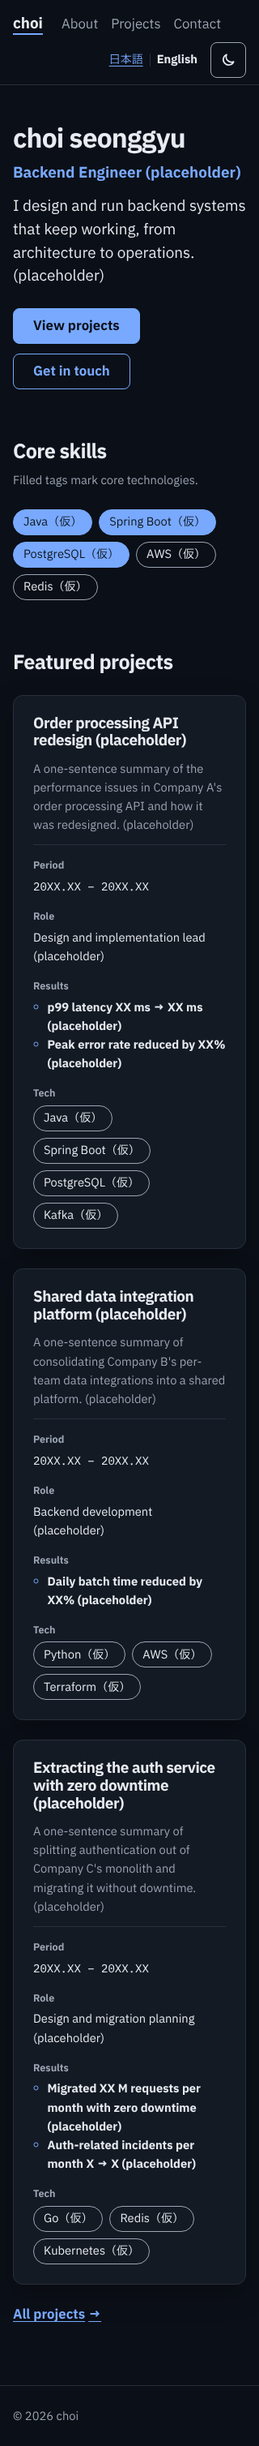
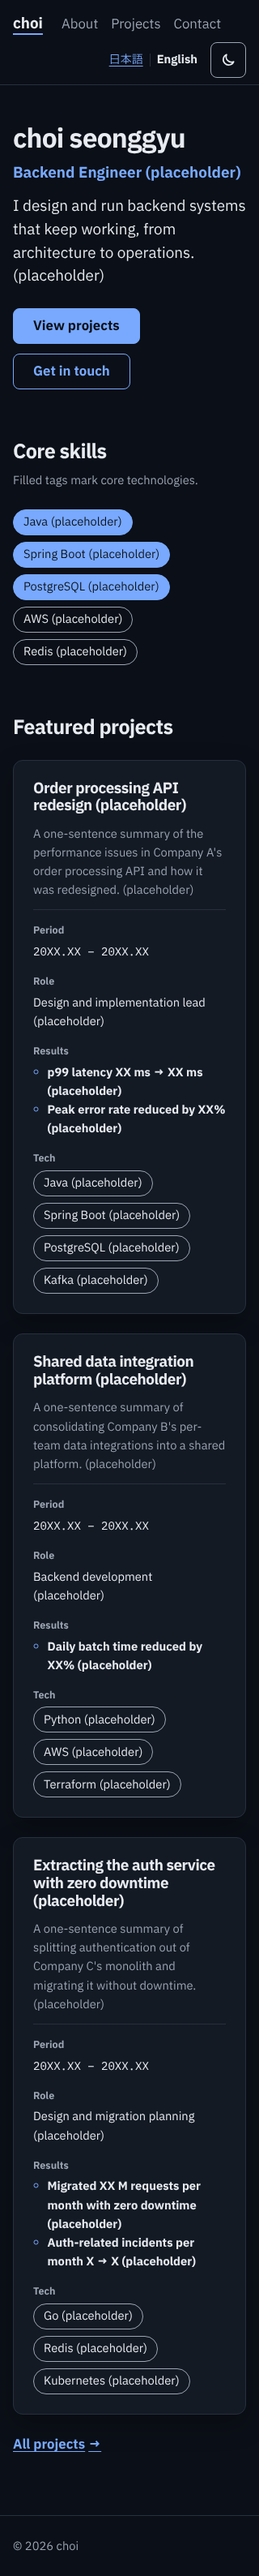
fix(home): 영어 화면 기술 이름에 영어 임시 표식 사용, 임시 항목 0건도 로그 출력 (T04 교차 리뷰)
- skills.yaml의 기술 이름을 언어 공통 문자열 또는 { ja, en }으로 받게 하고 localize로 페이지 언어 값을 고름
- 임시 기술 이름은 { ja: Java（仮）, en: Java (placeholder) }, 영어 프로젝트 tech는 (placeholder)
- [content] placeholder entries 로그를 0건일 때도 출력
- ARCHITECTURE §2 갱신, 영어 캡처 재촬영

Claude-Session: https://claude.ai/code/session_01K3SpN9df4Ld8oqsYgjqdA4

Changed region(s): [[0.0312, 0.0, 0.9375, 0.9662], [0.8125, 0.0, 0.9062, 0.0312], [0.7812, 0.7168, 0.8125, 0.748]]

diff --git a/src/lib/content.ts b/src/lib/content.ts
@@ -7,11 +7,13 @@ export type Profile = CollectionEntry<'profile'>['data'];
 export type Skill =
   CollectionEntry<'skills'>['data']['categories'][number]['items'][number];
 export type Project = CollectionEntry<'projects'>['data'] & { slug: string };
+/** 이름을 한 언어로 정한 기술. */
+export type LocalizedSkill = Omit<Skill, 'name'> & { name: string };
 
 export interface HomeContent {
   profile: Profile;
   /** Home 핵심 기술. homeOrder 순서. */
-  skills: Skill[];
+  skills: LocalizedSkill[];
   /** Home 대표 프로젝트. featuredOrder 순서. */
   projects: Project[];
 }
@@ -23,6 +25,12 @@ const PRIMARY_SKILLS = { min: 2, max: 4, perCategory: 2 };
 
 const isLocale = (value: string): value is Locale =>
   (locales as string[]).includes(value);
+
+/** 언어 공통 문자열 또는 언어별 값({ ja, en })에서 그 언어의 값을 고른다. */
+export const localize = (
+  value: string | Record<Locale, string>,
+  locale: Locale,
+): string => (typeof value === 'string' ? value : value[locale]);
 
 const outOfRange = (
   count: number,
@@ -132,7 +140,7 @@ async function loadContent() {
   const primaryOffHome = primary.filter((s) => s.homeOrder === undefined);
   if (primaryOffHome.length > 0) {
     errors.push(
-      `주력 기술은 모두 Home 핵심 기술에 포함해야 한다(homeOrder 필요): ${primaryOffHome.map((s) => s.name).join(', ')}`,
+      `주력 기술은 모두 Home 핵심 기술에 포함해야 한다(homeOrder 필요): ${primaryOffHome.map((s) => localize(s.name, 'ja')).join(', ')}`,
     );
   }
   if (outOfRange(primary.length, PRIMARY_SKILLS)) {
@@ -155,7 +163,7 @@ async function loadContent() {
     );
   }
 
-  // 배포 전 0건 확인용(docs/CONTENT.md "임시 문구 규칙"). 프로세스마다 한 번만 출력한다.
+  // 배포 전 0건 확인용(docs/CONTENT.md "임시 문구 규칙"). 0건이어도 출력하고, 프로세스마다 한 번만 출력한다.
   if (!placeholderReported) {
     placeholderReported = true;
     const counts = {
@@ -165,11 +173,9 @@ async function loadContent() {
         .length,
     };
     const total = counts.profile + counts.skills + counts.projects;
-    if (total > 0) {
-      console.warn(
-        `[content] placeholder entries: ${total} (profile ${counts.profile}, skills ${counts.skills}, projects ${counts.projects})`,
-      );
-    }
+    console.warn(
+      `[content] placeholder entries: ${total} (profile ${counts.profile}, skills ${counts.skills}, projects ${counts.projects})`,
+    );
   }
 
   return {
@@ -186,9 +192,9 @@ export async function getHomeContent(locale: Locale): Promise<HomeContent> {
   if (!profile) throw new Error(`[content] 프로필 없음: ${locale}`);
   return {
     profile,
-    skills: content.homeSkills.toSorted(
-      (a, b) => (a.homeOrder ?? 0) - (b.homeOrder ?? 0),
-    ),
+    skills: content.homeSkills
+      .toSorted((a, b) => (a.homeOrder ?? 0) - (b.homeOrder ?? 0))
+      .map((skill) => ({ ...skill, name: localize(skill.name, locale) })),
     projects: content.projects[locale]
       .filter((p) => p.featuredOrder !== undefined)
       .toSorted((a, b) => (a.featuredOrder ?? 0) - (b.featuredOrder ?? 0)),

diff --git a/src/content.config.ts b/src/content.config.ts
@@ -15,6 +15,12 @@ const phrases = z.union([z.string().min(1), z.array(z.string().min(1)).min(1)]);
 /** 원고를 받기 전의 임시 값이면 true. 배포 전에 모두 false여야 한다(docs/CONTENT.md). */
 const placeholder = z.boolean();
 
+/** 언어 공통 값. 언어마다 다르게 보여야 하면(예: 임시 표식) { ja, en }으로 쓴다. */
+const localizable = z.union([
+  z.string().min(1),
+  z.strictObject({ ja: z.string().min(1), en: z.string().min(1) }),
+]);
+
 // 언어별 1건: src/content/profile/<ja|en>.yaml
 const profile = defineCollection({
   loader: glob({ pattern: '*.yaml', base: './src/content/profile' }),
@@ -44,7 +50,7 @@ const skills = defineCollection({
             .array(
               z.strictObject({
                 placeholder,
-                name: z.string().min(1),
+                name: localizable,
                 primary: z.boolean().default(false),
                 /** 있으면 Home 핵심 기술에 이 순서로 표시한다. */
                 homeOrder: z.number().int().positive().optional(),

diff --git a/docs/ARCHITECTURE.md b/docs/ARCHITECTURE.md
@@ -78,7 +78,7 @@ Cloudflare Workers (정적 자산)
 | 컬렉션 | 파일 | 단위 | 주요 필드 |
 | --- | --- | --- | --- |
 | `profile` | `src/content/profile/<ja\|en>.yaml` | 언어별 1건(id = 언어) | `placeholder`, `name`, `role`(직함), `tagline`(한 줄 소개), `description`(Home meta description) |
-| `skills` | `src/content/skills.yaml` | 언어 공통 1건 | `categories[]`: `id`, `name.ja`/`name.en`, `items[]`: `placeholder`, `name`, `primary`(기본 false), `homeOrder`(있으면 Home 핵심 기술) |
+| `skills` | `src/content/skills.yaml` | 언어 공통 1건 | `categories[]`: `id`, `name.ja`/`name.en`, `items[]`: `placeholder`, `name`(언어 공통 문자열 또는 `{ ja, en }`), `primary`(기본 false), `homeOrder`(있으면 Home 핵심 기술) |
 | `projects` | `src/content/projects/<ja\|en>/<slug>.yaml` | 언어별, 같은 slug | `placeholder`, `title`, `summary`, `period`(문자열), `role`, `highlights`(1~2개), `tech`, `featuredOrder`(있으면 Home 대표 프로젝트) |
 
 - 필드 이름은 영어 camelCase로 통일한다. 스키마는 `z.strictObject`라서 모르는 필드(오타)가 있으면 빌드가 실패한다.
@@ -86,9 +86,9 @@ Cloudflare Workers (정적 자산)
 - 한 줄을 넘을 수 있는 일본어 문구(`profile.tagline`, `projects.title`)는 문자열 또는 문절 단위 문자열 배열이다. 배열이면 `Phrases.astro`가 문절 사이에서만 줄을 바꾼다(`docs/DESIGN.md` §2). 영어는 문자열로 쓴다.
 - 언어별 콘텐츠는 같은 slug를 쓰는 언어 폴더(프로필은 언어 이름 파일) 방식이다. 기술 스택은 기술 이름이 언어 공통이라 한 파일에 분류 이름만 두 벌 둔다. 분류·기술의 표시 순서는 파일 안 배열 순서다. 컬렉션 항목 사이의 순서에 기대지 않도록 분류마다 항목을 나누지 않고 한 파일 1건으로 둔다.
 - 여러 항목에 걸친 규칙은 `src/lib/content.ts`가 `getCollection` 결과를 검사하고, 어기면 어긴 규칙을 모두 적은 오류를 던져 빌드를 멈춘다: 언어 짝(프로필 ja/en, 프로젝트 slug), 대표 프로젝트 언어마다 2~3개, Home 핵심 기술 3~6개, 주력 기술은 모두 Home 핵심 기술에 포함, 주력 기술 전체 2~4개·분류당 0~2개, 순서 값 중복 금지, 같은 slug의 `featuredOrder`가 언어마다 같음. 페이지는 `getCollection`을 직접 쓰지 않고 이 파일의 함수(지금은 `getHomeContent`)를 쓴다. T05·Projects 지시서는 필요한 조회 함수를 같은 파일에 추가한다.
-- 임시 항목 수: 검사를 통과하면 `[content] placeholder entries: N (profile a, skills b, projects c)`를 빌드 로그에 경고로 한 번 출력한다. 기술은 항목(기술) 하나를 1건으로 센다. 배포 전 0건이어야 한다(`docs/CONTENT.md` "임시 문구 규칙").
+- 임시 항목 수: 검사를 통과하면 `[content] placeholder entries: N (profile a, skills b, projects c)`를 빌드 로그에 경고로 한 번 출력한다(0건이어도 출력). 기술은 항목(기술) 하나를 1건으로 센다. 배포 전 0건이어야 한다(`docs/CONTENT.md` "임시 문구 규칙").
 - 사이트 이름(`src/i18n/ui.ts`의 `site.name`)과 프로필 이름(`profile.name`)은 별개 값이다. 사이트 이름은 모든 페이지의 헤더·푸터·`<title>`에 쓰는 짧은 표기이고 레이아웃이 동기적으로 읽는 UI 문구다. 프로필 이름은 히어로·About에 쓰는 본문 콘텐츠이며 원고에서 漢字/カナ 표기가 될 수 있다. 지금은 사이트 이름 `choi`, 프로필 이름은 일본어 「チェ ソンギュ」, 영어 `choi seonggyu`다(2026-10-30 사용자 지정).
-- 기술 이름은 언어 공통 값이라 임시 표식도 영어 페이지에서 「（仮）」로 보인다(프로젝트의 `tech`도 같은 규칙).
+- 기술 이름은 보통 언어 공통 문자열로 쓰고, 언어마다 다르게 보여야 할 때만 `{ ja, en }`으로 쓴다. 조회 함수(`localize`)가 페이지 언어의 값을 고른다. 지금은 임시 표식(「（仮）」/`(placeholder)`)이 언어마다 달라서 모두 `{ ja, en }`이다. 프로젝트의 `tech`는 언어별 파일이라 각 언어 표식을 그대로 쓴다.
 
 T01 환경: Node 24.19.0, pnpm 11.25.0, Astro 7.4.4, React 19.3.1. TypeScript는 검사 도구의 지원 범위에 맞춰 6.0.3을 사용한다. 직접 의존성과 lockfile로 설치 버전을 기록한다. pnpm이 생성한 `pnpm-workspace.yaml`에는 이번 Astro 설치에 필요한 특정 버전의 release-age 예외만 기록한다.
 
